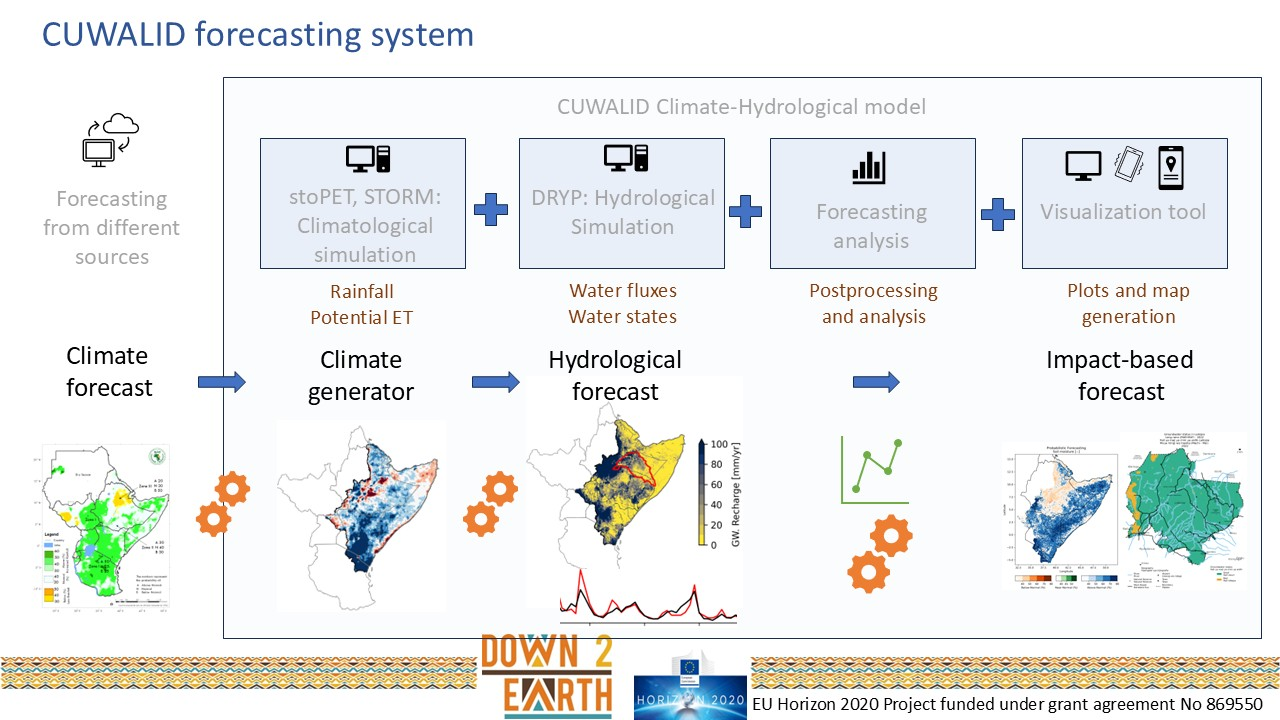
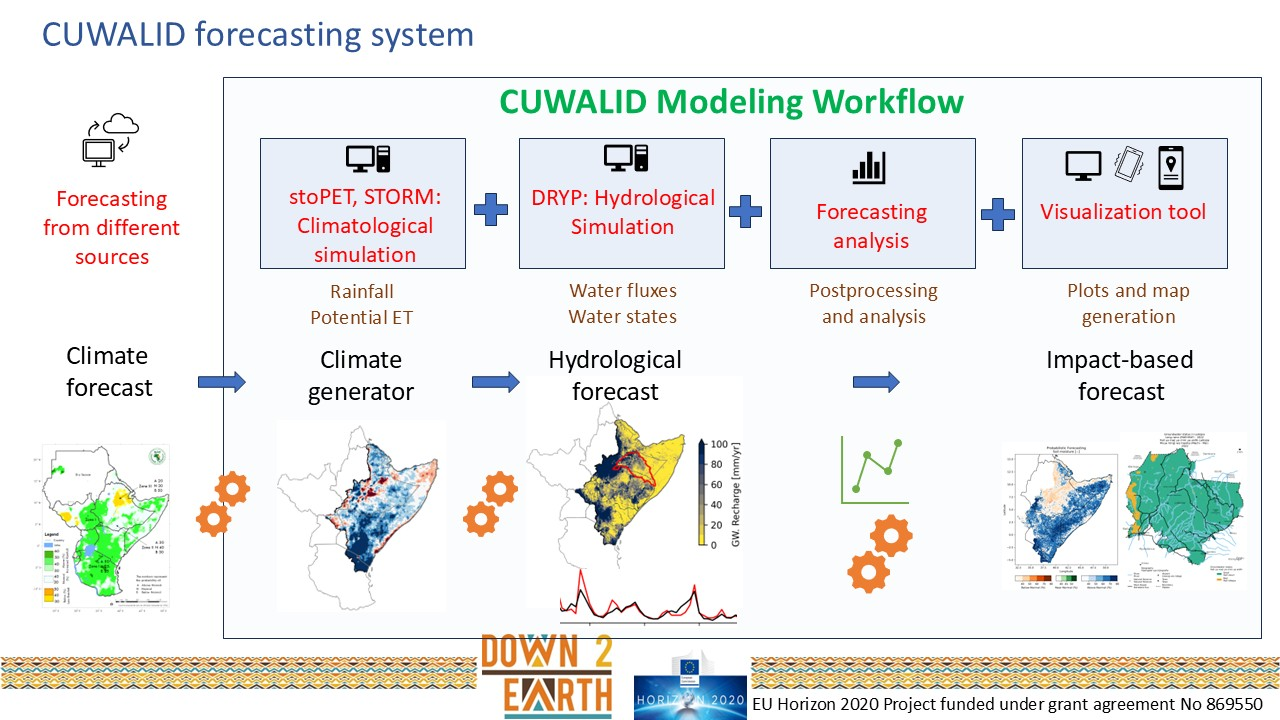
updates

diff --git a/_pages/CUWALID.md b/_pages/CUWALID.md
@@ -9,39 +9,41 @@ header:
 excerpt: 'A new forecasting tool to support decision making.<br /><br />' 
 ---
   <img src="/assets/images/Logos3.jpg" alt="CUWALID" class="responsive">
-<br /><br />**_DOWN2EARTH_ created a new model that converts climate forecasts into useful decision support.**  
+<br /><br />**_DOWN2EARTH_ created a new modeling system that converts climate forecasts into useful information on water and vegetation.**  
 
 ## Brief Summary
 ![image-center](/assets/images/Esther_fetching_water3.jpg){: .align-center}<br /><br />
 Subsistence rural communities in the Horn of Africa Drylands (HAD), focused on large areas of Ethiopia, Somalia, and Kenya, are dependent on key rainy seasons to support their lives and livelihoods. When seasonal rainfall is significantly higher or lower than historically normal conditions, it can lead to critical impacts on people, animals, and infrastructure. Seasonal climate forecasts are often used to plan for expected climatic hazards and associated risks to human society, and are delivered in outlook forums, such as the [IGAD Climate Prediction and Applications Center's](https://www.icpac.net/) Greater Horn of Africa Climate Outlook Forum (GHACOF). Climate forecasts of rainfall and temperature from ICPAC are communicated to broad audiences consisting of regional governments, media organizations, and humanitarian NGOs. However, these climate variables are of limited value on their own because they do not contain relevant information on where people on the ground might find drinking water for humans and animals or suitable pasture and browse vegetation for livestock. Climate information on its own is also limited for assessing potential flood hazard or crop health across regions such as the HAD. To address this information gap, the _DOWN2EARTH_ project has developed a new modeling system that translates seasonal (and subseasonal) climate forecasts into information on water and vegetation that more directly supports decision making. We call it Climate into Useful Water and Land Information in Drylands (CUWALID). It consists of a regional hydrological (water balance) model that is forced by a climate simulation module that represents the seasonal climate forecast as spatially explicit, realistic rainstorms and atmospheric evaporative demand (controlling water removal from the land surface) at high spatial and temporal resolution. This modeling system generates numerous outputs that we summarize into five use cases, all of which are delivered through our [WujihaCast chatbot](https://t.me/wuhijacast), as well as through ICPAC's [East Africa Hazards Watch desktop app](https://eahazardswatch.icpac.net/map/ea/).    
   
-### The DRYP Hydrological Model<br>
+## The DRYP Hydrological Model<br>
 We developed a regional hydrological model called DRYP, which runs with forcing data on precipitation and evaporative demand. DRYP is a full water balance model, which means that it captures all the key fluxes and stores of water at and below the land surface.<br /><br />
 ![image-center](/assets/images/DRYP_schematic.jpg){: .align-center}<br /><br />
-It runs at a time resolution of 1 hour and at a spatial resolution of 1 kilometer over a 2,000,000 km<sup>2</sup> area of the HAD.<br /><br /> 
-![image-center](/assets/images/model_domain.png){: .align-center}<br /><br />
+DRYP runs at a time resolution of 1 hour and at a spatial resolution of 1 kilometer over a 2,000,000 km<sup>2</sup> area of the HAD.<br /><br /> 
+![image-center](/assets/images/CUWALID_model_domain.jpg){: .align-center}<br /><br />
 The model is parameterized with gridded data for the region characterizing land cover, geology, soils, etc.<br /><br />
 ![image-center](/assets/images/DRYP_structure.jpg){: .align-center}<br /><br />
-DRYP includes a surface layer that interacts with the atmospheric climatic forcing, as well as with a subsurface (groundwater) layer. In addition to resolving all the key water balance fluxes (streamflow, infiltration, evapotranspiration, groundwater recharge), and stores (total groundwater storage, soil moisture), the model simulates: a) groundwater movement between regional aquifers; b) contributions from Rift Valley lakes to the HAD's groundwater system; c) emergent water bodies that fill up and subsequently dry up; and d) dynamic vegetation that varies seasonally in terms of canopy interception and transpiration.<br /><br />
+DRYP includes a surface layer that interacts with the atmospheric climatic forcing, as well as with a subsurface (groundwater) layer. In addition to resolving all the key water balance fluxes (streamflow, infiltration, evapotranspiration, groundwater recharge), and stores (total groundwater storage, soil moisture, lakes), the model simulates: a) groundwater movement between regional aquifers; b) contributions from Rift Valley lakes to the HAD's groundwater system; c) emergent water bodies that fill up and subsequently dry up; and d) dynamic vegetation that varies seasonally in terms of canopy interception and transpiration.<br /><br />
 ![image-center](/assets/images/DRYP_advances.jpg){: .align-center}<br /><br />   
 
-### The Climate Simulation Module<br>
+## The Climate Simulation Module<br>
 The Climate Simulation module in CUWALID consists of two main components:<br /> 
-1. The STOchastic Rainstorm Model (STORM) simulates randomized but realistic rainstorms for each season including rainstorm area, duration, maximum intensity and spatial intensity gradient, trajectory, and timing. The original data used for parameterization of STORM come from a regional gridded rainfall dataset we created in _DOWN2EARTH_ called Gridded hI-resolution Rainfall for the Horn of AFrica (GIRHAF). STORM generates total seasonal rainfall across subregions of the HAD that is consist with climatological data. The model can be straightforwardly adjusted to generate above normal or below normal seaonal rainfall totals for specific areas of the HAD, based on the spatial map of ICPAC's tercile forecast.<br /> 
-2. The STOchastic Potential Evapotranspiration model (stoPET) simulates spatially explicit fields of evaporative demand for the atmosphere to take up water from the land surface. It represents the <br /><br />
+1. The STOchastic Rainstorm Model (STORM) simulates randomized but realistic rainstorms for each season including rainstorm area, duration, maximum intensity and spatial intensity gradient, trajectory, and timing. The original data used for parameterization of STORM comes from a regional gridded rainfall dataset we created in _DOWN2EARTH_ called Gridded hI-resolution Rainfall for the Horn of AFrica (GIRHAF). STORM generates total seasonal rainfall across subregions of the HAD that is consist with climatological data. The model can be straightforwardly adjusted to generate above normal or below normal seaonal rainfall totals for specific areas of the HAD, based on the spatial map of ICPAC's tercile rainfall forecast.<br /> 
+2. The STOchastic Potential Evapotranspiration model (stoPET) simulates spatially explicit fields of evaporative demand from the atmosphere to take up water from the land surface. The original data used for parameterization of stoPET comes from a global PET dataset we created in _DOWN2EARTH_ called hourly Potential EvapoTranspiration (hPET). stoPET generateds hourly values of PET for all of the HAD in a manner that respects the diurnal variations of solar radiation and heat build-up in the atmosphere through the day. The model can be straightforwardly adjusted to generate above normal or below normal seaonal temperature for specific areas of the HAD, based on the spatial map of ICPAC's tercile temperature forecast.<br /><br />
 ![image-center](/assets/images/Climate_Simulation.jpg){: .align-center}<br /><br />  
 
-### Representing Seasonal Rainfall and Temperature Forecasts<br />
+## Representing Seasonal Rainfall and Temperature Forecasts<br />
 
-### Delivering Useful Outputs to Various Users<br />
+## Delivering Useful Outputs to Various Users<br />
 ![image-center](/assets/images/CUWALID_use_cases.jpg){: .align-center}<br /><br />
 
-### Workflow at ICPAC<br />
+## Workflow at ICPAC<br />
 ![image-center](/assets/images/CUWALID_forecasting_workflow.jpg){: .align-center}<br /><br />
 
 
 
-### References<br />
+## References<br />
+Singer, M.B., *Asfaw, D.T., Rosolem, R., Cuthbert, M.O., *Quichimbo, A., Miralles, D.G., MacLeod, D., Michaelides, K. (2021). Hourly potential evapotranspiration at 0.1˚ grid resolution for the global land surface from 1981-present, _Scientific Data_, 8(224), doi:[10.1038/s41597-021-01003-9](https://www.nature.com/articles/s41597-021-01003-9). [<span style="color:red">pdf</span>](../assets/pdfs/publications/Singer_etal_2021.pdf)  
+
 *Quichimbo, E.A., Singer, M.B., Michaelides, K., Hobley, D., Rosolem, R., Cuthbert, M.O. (2021). DRYP 1.0: A parsimonious hydrological model of DRYland Partitioning of the water balance, _Geoscientific Model Development_, doi:[10.5194/gmd-2021-137](https://gmd.copernicus.org/articles/14/6893/2021/). [<span style="color:red">pdf</span>](../assets/pdfs/publications/Quichimbo_etal_2021.pdf)
 
 *Quichimbo, E.A., Singer, M.B., Michaelides, K., Rosolem, R., *MacLeod, D.A., *Asfaw, D.T., Cuthbert, M.O. (2023); Assessing the sensitivity of modelled water partitioning to global precipitation datasets in a data-scarce dryland region, _Hydrological Processes_, doi:[10.1002/hyp.15047](https://onlinelibrary.wiley.com/doi/10.1002/hyp.15047), [<span style="color:red">pdf</span>](../assets/pdfs/publications/Quichimbo_etal_2023.pdf).
